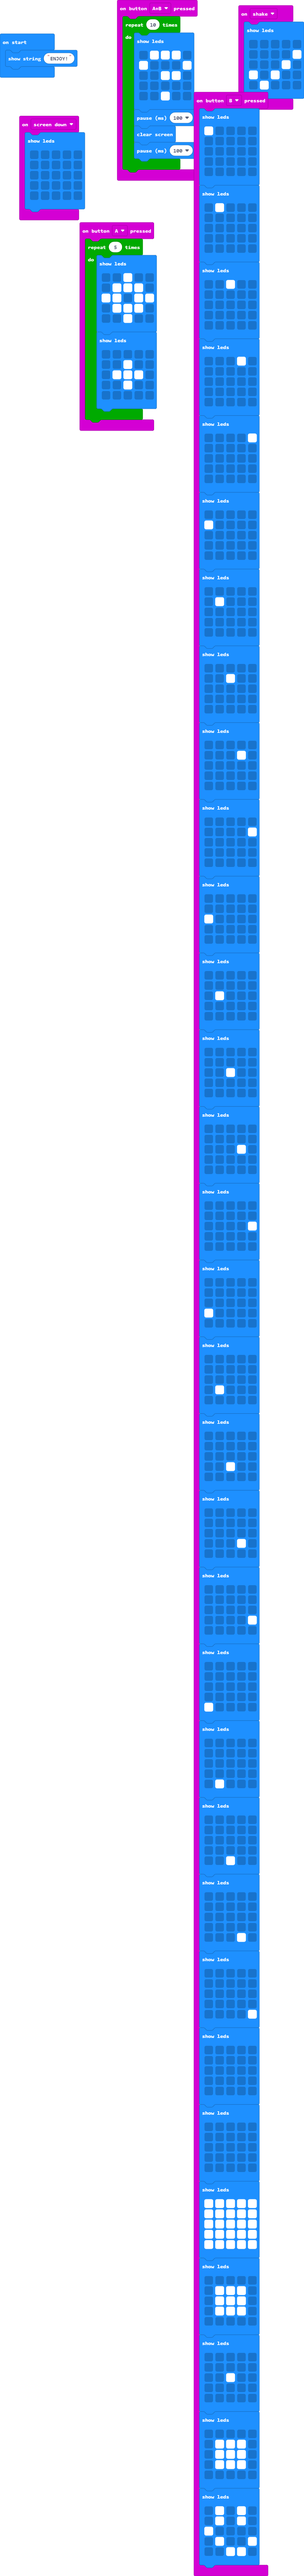
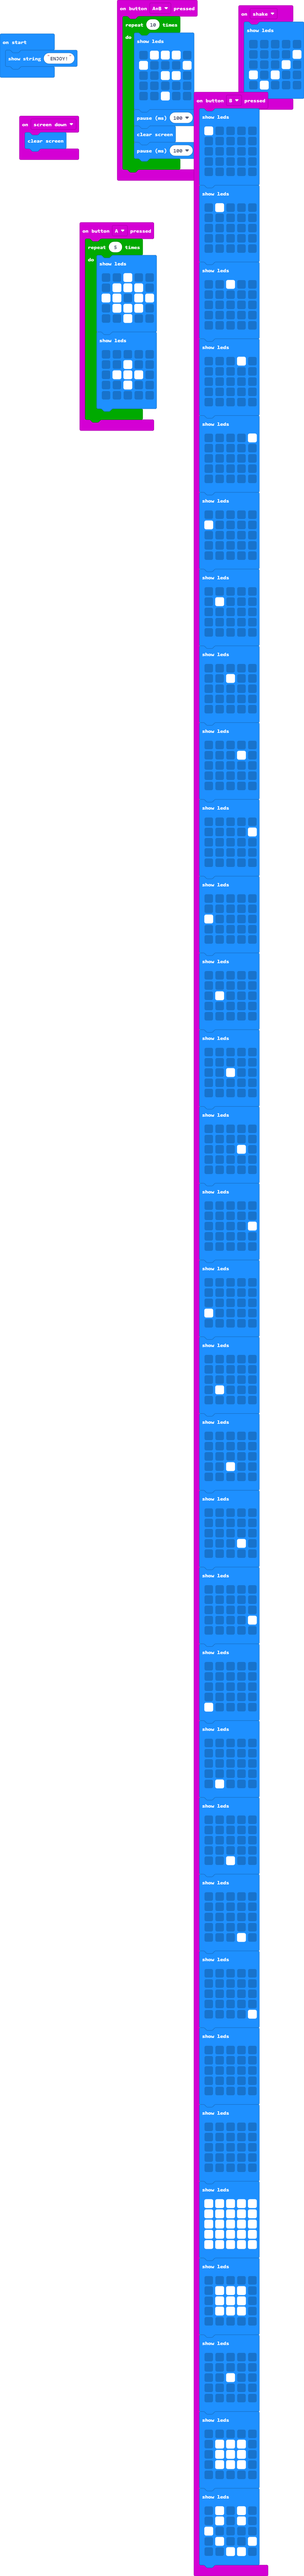
Update main.blocks, main.ts

Changed region(s): [[0.0605, 0.0311, 0.3027, 0.0934]]

diff --git a/main.ts b/main.ts
@@ -17,13 +17,7 @@ input.onButtonPressed(Button.A, function () {
     }
 })
 input.onGesture(Gesture.ScreenDown, function () {
-    basic.showLeds(`
-        . . . . .
-        . . . . .
-        . . . . .
-        . . . . .
-        . . . . .
-        `)
+    basic.clearScreen()
 })
 input.onButtonPressed(Button.AB, function () {
     for (let index = 0; index < 10; index++) {
